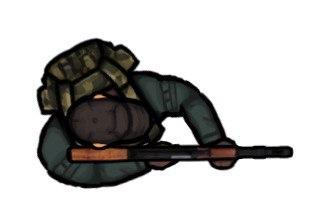
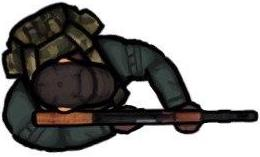
Cropped the sample image Adjusted the code for rotating the image

diff --git a/src/Player.java b/src/Player.java
@@ -1,6 +1,5 @@
 import javafx.animation.AnimationTimer;
 import javafx.collections.ObservableList;
-import javafx.event.Event;
 import javafx.scene.Node;
 import javafx.scene.image.Image;
 import javafx.scene.image.ImageView;
@@ -8,7 +7,6 @@ import javafx.scene.input.KeyCode;
 import javafx.scene.input.KeyEvent;
 import javafx.scene.input.MouseButton;
 import javafx.scene.input.MouseEvent;
-import javafx.scene.transform.Transform;
 
 import java.util.LinkedList;
 
@@ -36,24 +34,9 @@ public class Player extends ImageView {
                 setRotate(angle);
                 updateBullets();
                 deleteBullets();
-                checkBoundaries();
             }
         };
         a.start();
-    }
-    private void checkBoundaries() {
-        if (getTranslateX()<0) {
-            setTranslateX(0);
-        }
-        if (getTranslateX()+getFitWidth()>Run.relativeX(100)) {
-            setTranslateX(Run.relativeX(99.9)-getFitWidth());
-        }
-        if (getTranslateY()<0) {
-            setTranslateY(0);
-        }
-        if (getTranslateY()+getFitHeight()>Run.relativeY(100)) {
-            setTranslateY(Run.relativeY(99.9)-getFitHeight());
-        }
     }
 
     public Player(ObservableList<Node> group) {
@@ -104,10 +87,10 @@ public class Player extends ImageView {
     }
 
     public void setOnMoved(MouseEvent event) {
-        angle = Math.toDegrees(Math.atan((event.getY() - getTranslateY()) / (event.getX() - getTranslateX())));
-        if (getTranslateX() > event.getX()) {
-            angle += 180;
-        }
+        angle = Math.toDegrees(Math.atan2(getTranslateY() - event.getY() , getTranslateX() - event.getX())) + 180;
+//        if (getTranslateX() > event.getX()) {
+//            angle += 180;
+//        }
     }
     public void shoot(MouseEvent event, ObservableList<Node> parent) {
         if (event.getButton() == MouseButton.PRIMARY) {
@@ -133,6 +116,10 @@ public class Player extends ImageView {
             }
         }
     }
+
+
+
+
     private void deleteBullets() {
         for (Bullet bullet:bullets) {
             if (bullet.getTranslateX()>Run.relativeX(100)) {
